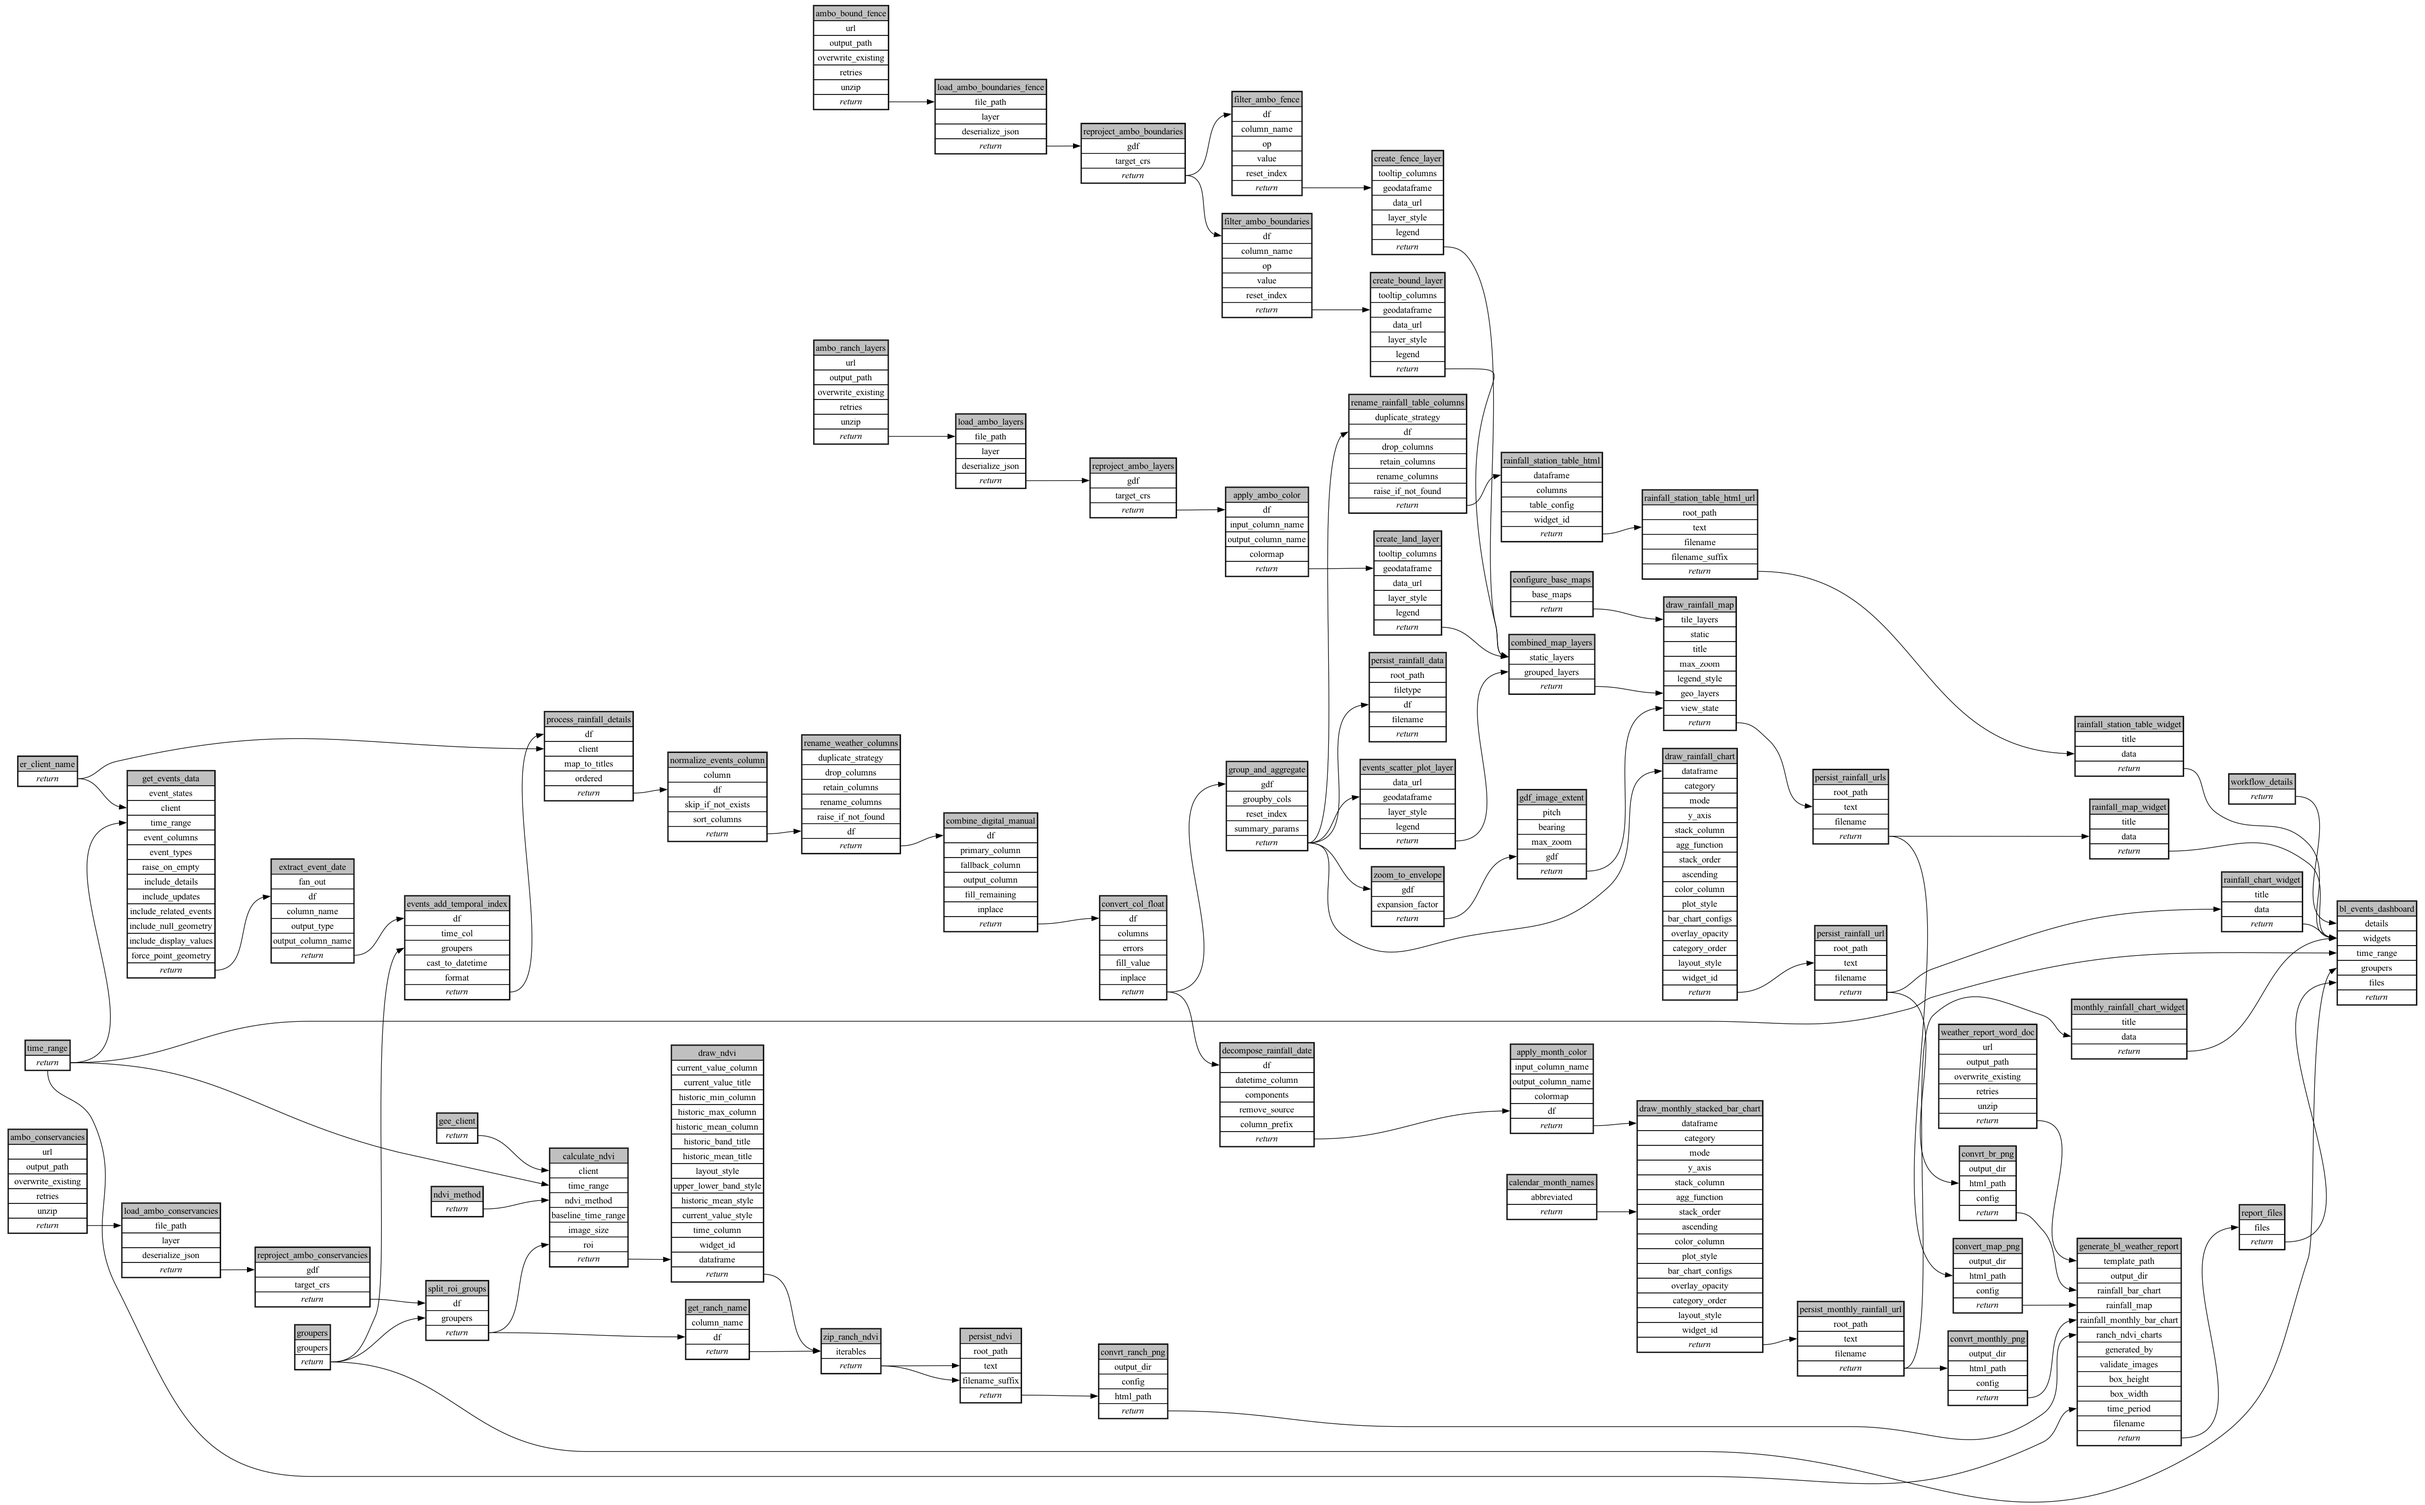
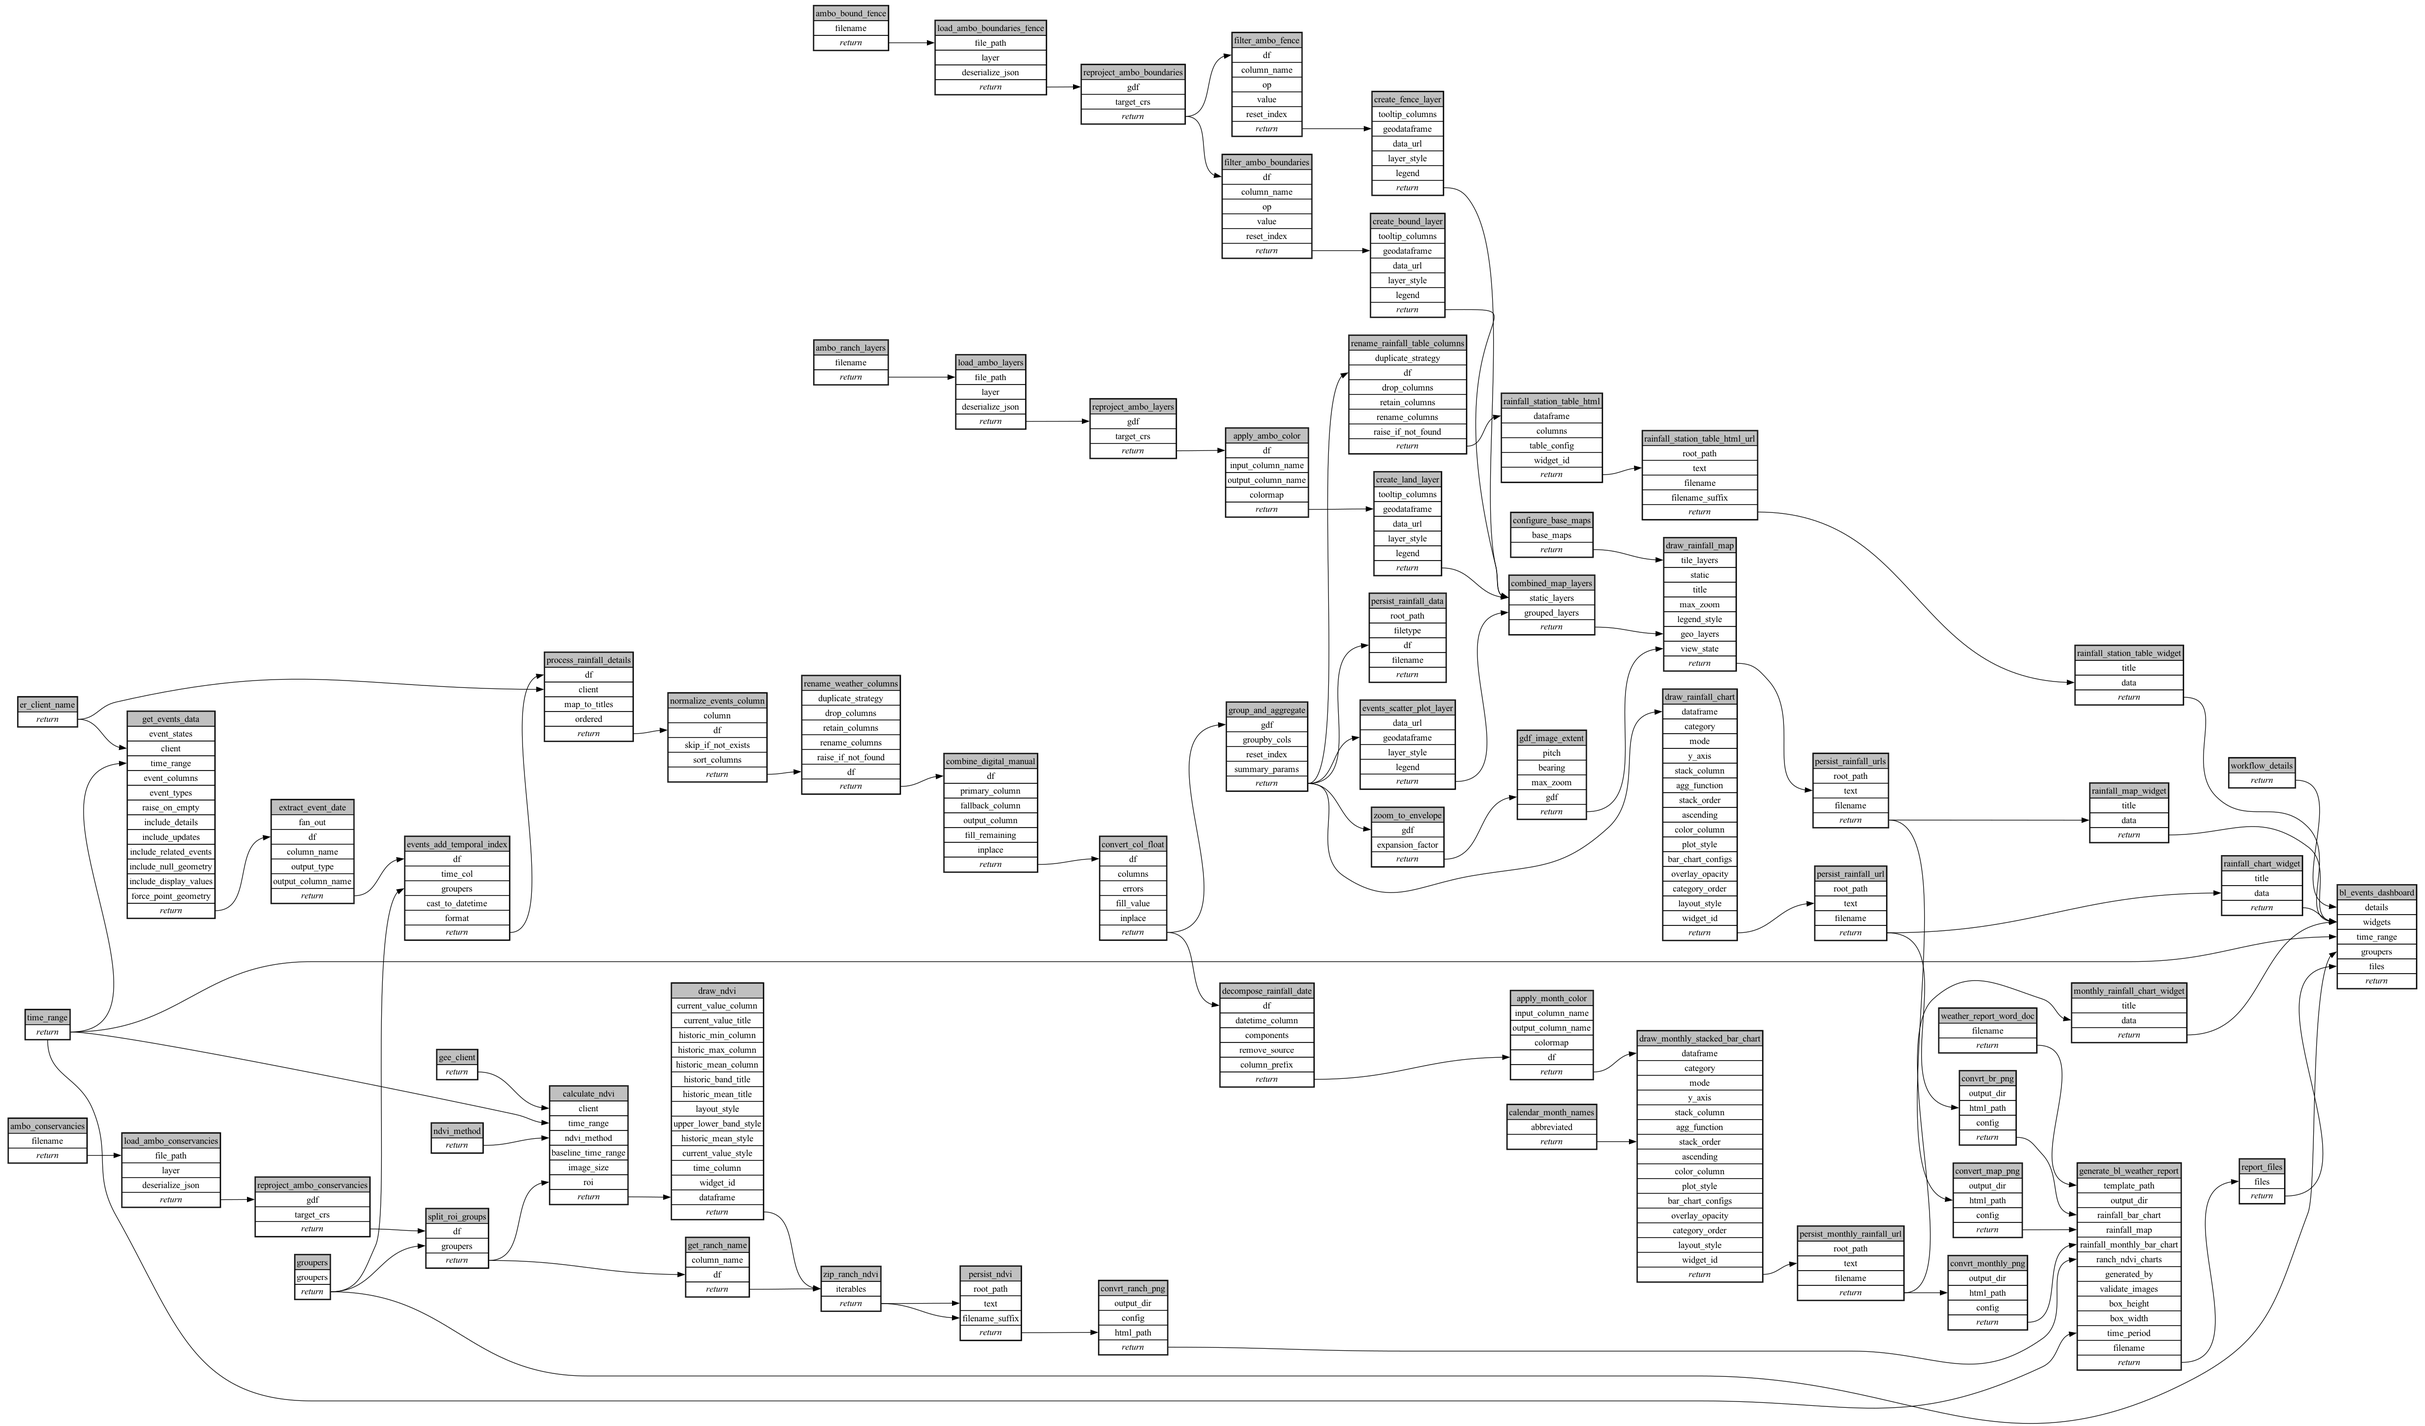
Use the packaged map layers and template instead of Dropbox downloads
Replace the four fetch_and_persist_file Dropbox steps with
load_big_life_file, which reads the files shipped in ext-big-life 1.3.0
(byte-identical to the Dropbox files). No files are downloaded at run time,
so what runs is versioned and reviewed with the package. Same step ids, so
downstream steps are unchanged. Recompiled with --variant=gcp; VERSION 1.0.0.

diff --git a/ecoscope-workflows-bl-weather-report-workflow/ecoscope_workflows_bl_weather_report_workflow/dags/run_sequential.py b/ecoscope-workflows-bl-weather-report-workflow/ecoscope_workflows_bl_weather_report_workflow/dags/run_sequential.py
@@ -51,6 +51,9 @@ from ecoscope.platform.tasks.transformation import map_columns as map_columns
 from ecoscope.platform.tasks.transformation import (
     normalize_json_column as normalize_json_column,
 )
+from ecoscope_workflows_ext_big_life.tasks.io import (
+    load_big_life_file as load_big_life_file,
+)
 from ecoscope_workflows_ext_big_life.tasks.localization import (
     month_names as month_names,
 )
@@ -74,9 +77,6 @@ from ecoscope_workflows_ext_custom.tasks.io import html_to_png as html_to_png
 from ecoscope_workflows_ext_custom.tasks.io import load_df as load_df
 from ecoscope_workflows_ext_custom.tasks.spatial_ops import (
     reproject_gdf as reproject_gdf,
-)
-from ecoscope_workflows_ext_ste.tasks.io import (
-    fetch_and_persist_file as fetch_and_persist_file,
 )
 from ecoscope_workflows_ext_ste.tasks.spatial_operations import (
     combine_deckgl_map_layers as combine_deckgl_map_layers,
@@ -223,7 +223,7 @@ def main(params: dict[str, Any], validate_params_schema: bool = True):
     )
 
     ambo_ranch_layers = (
-        task(fetch_and_persist_file)
+        task(load_big_life_file)
         .validate()
         .set_task_instance_id("ambo_ranch_layers")
         .handle_errors()
@@ -236,18 +236,14 @@ def main(params: dict[str, Any], validate_params_schema: bool = True):
             unpack_depth=1,
         )
         .partial(
-            url="https://www.dropbox.com/scl/fi/wrcp3pnnxqyrclzmbtt1r/amboseli_ranch_conservancies_layers.gpkg?rlkey=jfbqj1b1nwhijxbsy7b2v1d29&st=d7rbqdfe&dl=0",
-            output_path=os.environ["ECOSCOPE_WORKFLOWS_RESULTS"],
-            overwrite_existing=False,
-            retries=3,
-            unzip=False,
+            filename="amboseli_ranch_conservancies_layers.gpkg",
             **(params.get("ambo_ranch_layers") or {}),
         )
         .call()
     )
 
     ambo_bound_fence = (
-        task(fetch_and_persist_file)
+        task(load_big_life_file)
         .validate()
         .set_task_instance_id("ambo_bound_fence")
         .handle_errors()
@@ -260,18 +256,14 @@ def main(params: dict[str, Any], validate_params_schema: bool = True):
             unpack_depth=1,
         )
         .partial(
-            url="https://www.dropbox.com/scl/fi/k6dgrmxmxeb3fe6glihwa/amboseli_group_ranch_boundaries_x_electric_fence.gpkg?rlkey=limtzffe88lr0iof5kf3b6uoy&st=rreho3tq&dl=0",
-            output_path=os.environ["ECOSCOPE_WORKFLOWS_RESULTS"],
-            overwrite_existing=False,
-            retries=3,
-            unzip=False,
+            filename="amboseli_group_ranch_boundaries_x_electric_fence.gpkg",
             **(params.get("ambo_bound_fence") or {}),
         )
         .call()
     )
 
     ambo_conservancies = (
-        task(fetch_and_persist_file)
+        task(load_big_life_file)
         .validate()
         .set_task_instance_id("ambo_conservancies")
         .handle_errors()
@@ -284,11 +276,7 @@ def main(params: dict[str, Any], validate_params_schema: bool = True):
             unpack_depth=1,
         )
         .partial(
-            url="https://www.dropbox.com/scl/fi/blo1smf49buhwx24y4z60/amboseli_group_ranch_boundaries.gpkg?rlkey=w86emavj8ug7zab73ifbzg6jv&st=v8uptlb0&dl=0",
-            output_path=os.environ["ECOSCOPE_WORKFLOWS_RESULTS"],
-            overwrite_existing=False,
-            retries=3,
-            unzip=False,
+            filename="amboseli_group_ranch_boundaries.gpkg",
             **(params.get("ambo_conservancies") or {}),
         )
         .call()
@@ -1704,7 +1692,7 @@ def main(params: dict[str, Any], validate_params_schema: bool = True):
     )
 
     weather_report_word_doc = (
-        task(fetch_and_persist_file)
+        task(load_big_life_file)
         .validate()
         .set_task_instance_id("weather_report_word_doc")
         .handle_errors()
@@ -1717,11 +1705,7 @@ def main(params: dict[str, Any], validate_params_schema: bool = True):
             unpack_depth=1,
         )
         .partial(
-            url="https://www.dropbox.com/scl/fi/mtsv3inq9u9443a676bn3/big_life_weather_report_template.docx?rlkey=hq3cnrdza32430iniffo6s39p&st=nsa0j1c1&dl=0",
-            output_path=os.environ["ECOSCOPE_WORKFLOWS_RESULTS"],
-            overwrite_existing=False,
-            retries=3,
-            unzip=False,
+            filename="big_life_weather_report_template.docx",
             **(params.get("weather_report_word_doc") or {}),
         )
         .call()

diff --git a/ecoscope-workflows-bl-weather-report-workflow/ecoscope_workflows_bl_weather_report_workflow/dags/run_sequential_mock_io.py b/ecoscope-workflows-bl-weather-report-workflow/ecoscope_workflows_bl_weather_report_workflow/dags/run_sequential_mock_io.py
@@ -23,12 +23,12 @@ from ecoscope.platform.tasks.skip import (
 from ecoscope.platform.tasks.skip import any_is_empty_df as any_is_empty_df
 from ecoscope.platform.tasks.transformation import apply_color_map as apply_color_map
 from ecoscope.platform.tasks.transformation import filter_df as filter_df
+from ecoscope_workflows_ext_big_life.tasks.io import (
+    load_big_life_file as load_big_life_file,
+)
 from ecoscope_workflows_ext_custom.tasks.io import load_df as load_df
 from ecoscope_workflows_ext_custom.tasks.spatial_ops import (
     reproject_gdf as reproject_gdf,
-)
-from ecoscope_workflows_ext_ste.tasks.io import (
-    fetch_and_persist_file as fetch_and_persist_file,
 )
 from wt_contracts import validate as _validate
 from wt_task import task
@@ -246,7 +246,7 @@ def main(params: dict[str, Any], validate_params_schema: bool = True):
     )
 
     ambo_ranch_layers = (
-        task(fetch_and_persist_file)
+        task(load_big_life_file)
         .validate()
         .set_task_instance_id("ambo_ranch_layers")
         .handle_errors()
@@ -259,18 +259,14 @@ def main(params: dict[str, Any], validate_params_schema: bool = True):
             unpack_depth=1,
         )
         .partial(
-            url="https://www.dropbox.com/scl/fi/wrcp3pnnxqyrclzmbtt1r/amboseli_ranch_conservancies_layers.gpkg?rlkey=jfbqj1b1nwhijxbsy7b2v1d29&st=d7rbqdfe&dl=0",
-            output_path=os.environ["ECOSCOPE_WORKFLOWS_RESULTS"],
-            overwrite_existing=False,
-            retries=3,
-            unzip=False,
+            filename="amboseli_ranch_conservancies_layers.gpkg",
             **(params.get("ambo_ranch_layers") or {}),
         )
         .call()
     )
 
     ambo_bound_fence = (
-        task(fetch_and_persist_file)
+        task(load_big_life_file)
         .validate()
         .set_task_instance_id("ambo_bound_fence")
         .handle_errors()
@@ -283,18 +279,14 @@ def main(params: dict[str, Any], validate_params_schema: bool = True):
             unpack_depth=1,
         )
         .partial(
-            url="https://www.dropbox.com/scl/fi/k6dgrmxmxeb3fe6glihwa/amboseli_group_ranch_boundaries_x_electric_fence.gpkg?rlkey=limtzffe88lr0iof5kf3b6uoy&st=rreho3tq&dl=0",
-            output_path=os.environ["ECOSCOPE_WORKFLOWS_RESULTS"],
-            overwrite_existing=False,
-            retries=3,
-            unzip=False,
+            filename="amboseli_group_ranch_boundaries_x_electric_fence.gpkg",
             **(params.get("ambo_bound_fence") or {}),
         )
         .call()
     )
 
     ambo_conservancies = (
-        task(fetch_and_persist_file)
+        task(load_big_life_file)
         .validate()
         .set_task_instance_id("ambo_conservancies")
         .handle_errors()
@@ -307,11 +299,7 @@ def main(params: dict[str, Any], validate_params_schema: bool = True):
             unpack_depth=1,
         )
         .partial(
-            url="https://www.dropbox.com/scl/fi/blo1smf49buhwx24y4z60/amboseli_group_ranch_boundaries.gpkg?rlkey=w86emavj8ug7zab73ifbzg6jv&st=v8uptlb0&dl=0",
-            output_path=os.environ["ECOSCOPE_WORKFLOWS_RESULTS"],
-            overwrite_existing=False,
-            retries=3,
-            unzip=False,
+            filename="amboseli_group_ranch_boundaries.gpkg",
             **(params.get("ambo_conservancies") or {}),
         )
         .call()
@@ -1727,7 +1715,7 @@ def main(params: dict[str, Any], validate_params_schema: bool = True):
     )
 
     weather_report_word_doc = (
-        task(fetch_and_persist_file)
+        task(load_big_life_file)
         .validate()
         .set_task_instance_id("weather_report_word_doc")
         .handle_errors()
@@ -1740,11 +1728,7 @@ def main(params: dict[str, Any], validate_params_schema: bool = True):
             unpack_depth=1,
         )
         .partial(
-            url="https://www.dropbox.com/scl/fi/mtsv3inq9u9443a676bn3/big_life_weather_report_template.docx?rlkey=hq3cnrdza32430iniffo6s39p&st=nsa0j1c1&dl=0",
-            output_path=os.environ["ECOSCOPE_WORKFLOWS_RESULTS"],
-            overwrite_existing=False,
-            retries=3,
-            unzip=False,
+            filename="big_life_weather_report_template.docx",
             **(params.get("weather_report_word_doc") or {}),
         )
         .call()

diff --git a/ecoscope-workflows-bl-weather-report-workflow/README.md b/ecoscope-workflows-bl-weather-report-workflow/README.md
@@ -5,8 +5,8 @@
 
 ```yaml
 # fingerprint:
-artifacts_sha256_basic: 11b9ddb3fed95f537fcd86098700907fe78fa9c731a9b079d75fe50af86ef030
-artifacts_sha256_strict: 25c73fc2d433eb4a16f79d57c49e466420408a35ed624701bf59dd7283769b8d
+artifacts_sha256_basic: 0d957cf2a86e52abe6f40467a42747ce98e940a61cd47379c029343b5d374536
+artifacts_sha256_strict: 464fbe5ab5e817215b7c1fa3ad9408b6fd6d9ee5907b19b88acadb202ee6e1af
 installed_requirements:
 - channel: https://repo.prefix.dev/ecoscope-workflows/
   name: ecoscope-platform
@@ -25,7 +25,7 @@ installed_requirements:
   version: {version: ==0.0.0rc9}
 - channel: https://repo.prefix.dev/ecoscope-workflows-custom/
   name: ecoscope-workflows-ext-big-life
-  version: {version: ==1.2.1}
+  version: {version: ==1.3.0}
 - channel: conda-forge
   name: pydeck
   version: {version: ==0.9.2}
@@ -33,7 +33,7 @@ installed_requirements:
   name: opentelemetry-sdk
   version: {version: ==1.45.1}
 params_sha256: cefc528e81fd30a4f087ebb16a6e6b6e970455659087a957118ea18bff8aa1a9
-spec_sha256: 4a84351d77d58a7372335fce6ac58d23818314c94b32179960c01b776b523168
+spec_sha256: c7a30640985135e7ea375b3c1f928d40bc99876ec5c3aa852ce70c8206762267
 
 ```
 
